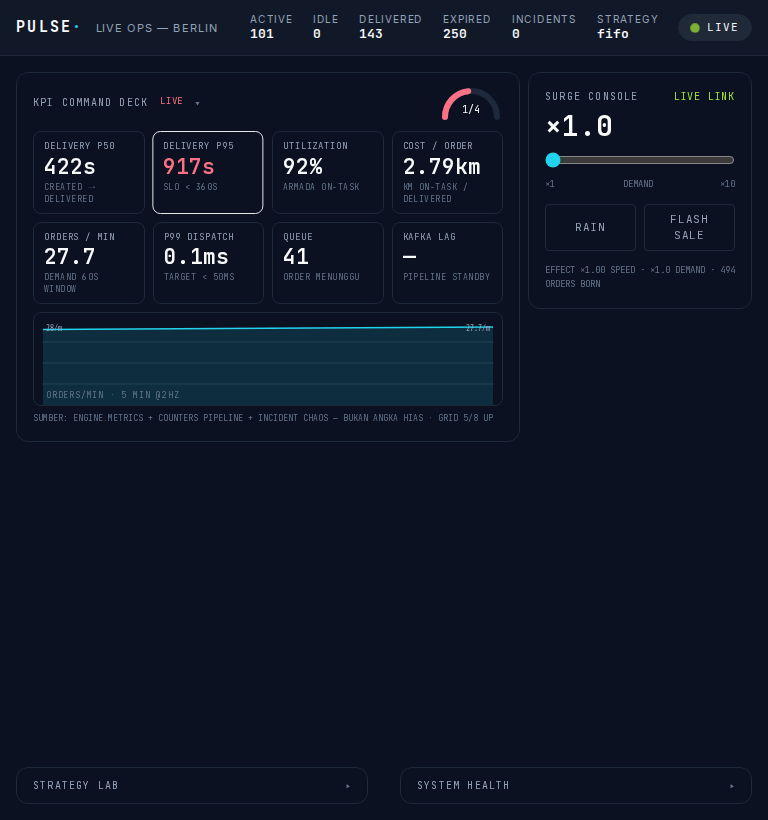
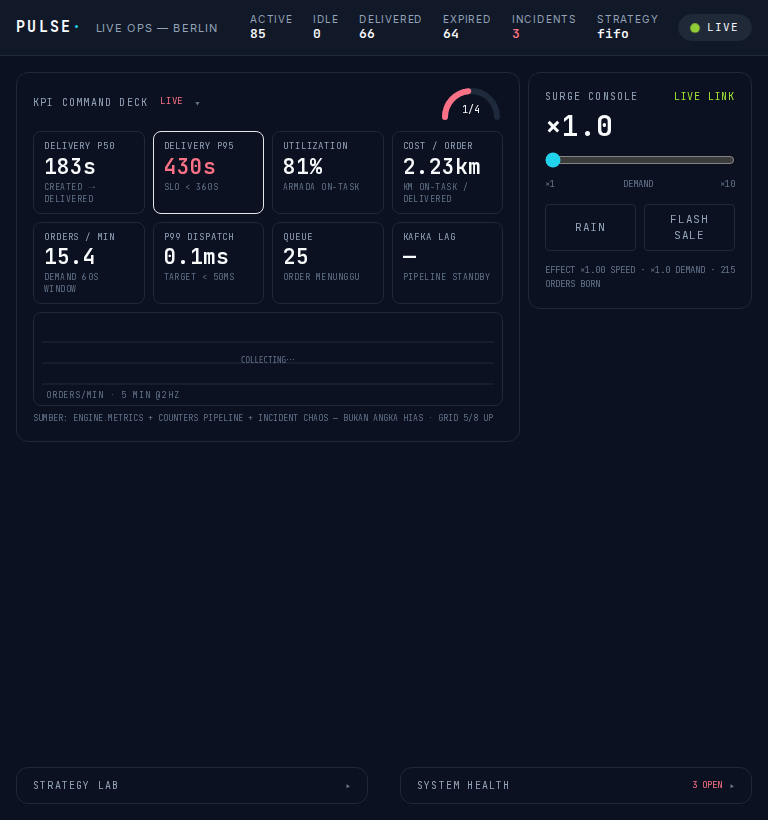
docs(phase-4): bukti UI lengkap 1440px + verifikasi final (rAF audit deterministik)

diff --git a/reports/phase-04-chaos.md b/reports/phase-04-chaos.md
@@ -132,11 +132,13 @@ WS/API 172.19.0.1). Hasil run final:
 - System Health: canvas pipeline tergambar + partikel bergerak (bukti piksel),
   grid node tampil, health events mengalir.
 - Chaos E2E dari UI: tombol KILL dua langkah (arm → CONFIRM) → kill
-  strategy-lab → incident `chaos-kill` **MTTD 414 ms · MTTR 1 996 ms** tampil di
-  timeline (RECOVERED), service kembali `healthy` di grid.
-- rAF audit: open tab PIPELINE 140 panggilan rAF/2 s vs map-only 70–73/2 s →
-  partikel hanya hidup saat panel terbuka; tab CHAOS/panel tertutup = baseline
-  LiveMap (fase 1, by-design) — tanpa rAF permanen baru.
+  strategy-lab → incident `chaos-kill` **MTTD 1 008 ms · MTTR 1 994 ms** tampil
+  di timeline (RECOVERED), service kembali `healthy` di grid.
+- rAF audit (deterministik): canvas pipeline bergerak saat tab terbuka (bukti
+  piksel), UNMOUNT saat tab diganti & konten panel unmount saat ditutup
+  (cleanup React membatalkan rAF — tanpa rAF permanen baru). Hitungan
+  informatif: 88/2 s terbuka vs 42–72/2 s baseline map (berfluktuasi ikut
+  beban host).
 - reduced-motion: pipeline statis tergambar, tanpa getaran.
 - Layout 1440/1024/768 tanpa tumpang tindih panel; console error 0.
 - Bukti gambar: `reports/phase04-deck-live.png`, `phase04-chaos-recovered.png`,
